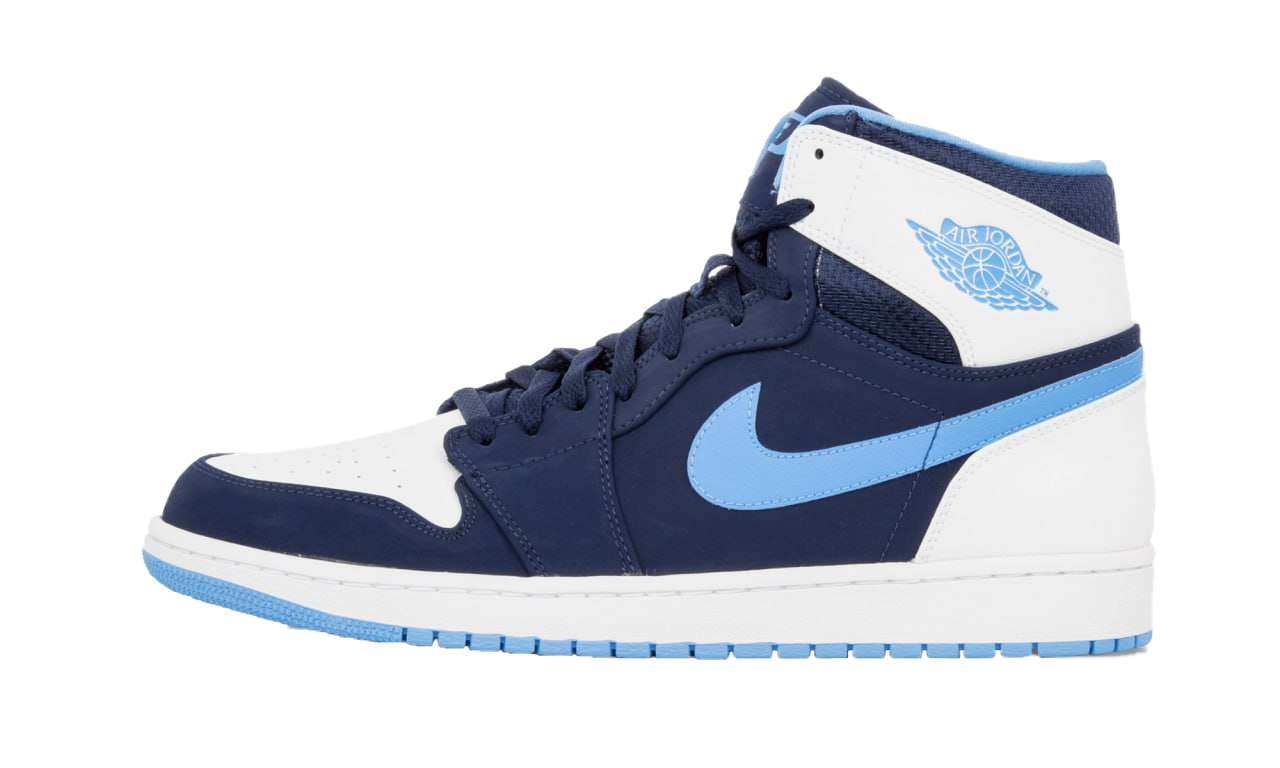
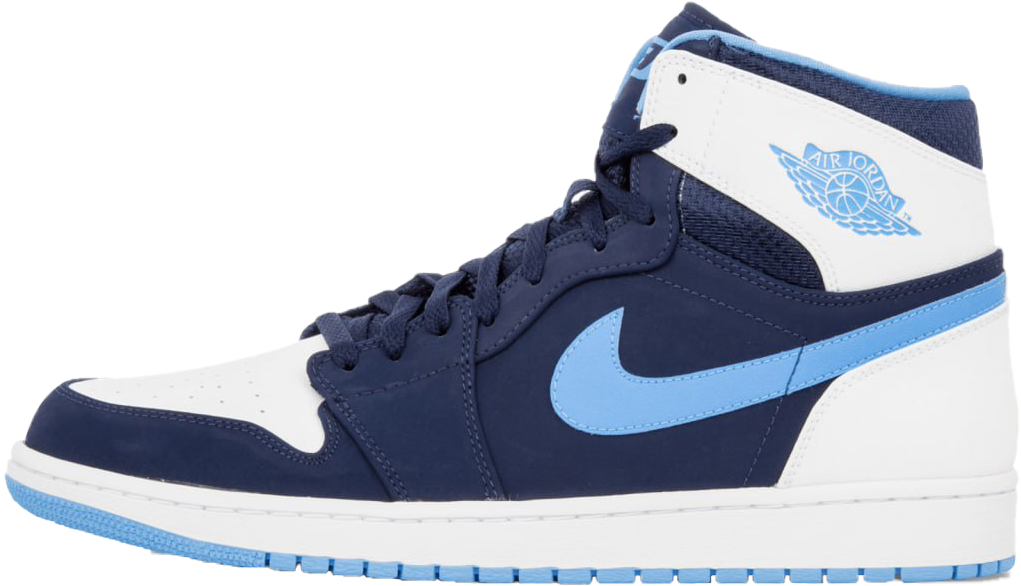
1

diff --git a/product.html b/product.html
@@ -128,7 +128,7 @@
         <div class="container">
             <div class="card">
                 <div class="image">
-                    <img src="images/products/photo_1_2024-12-17_21-01-35.png" alt="">
+                    <img src="images/products/1.png" alt="">
                 </div>
                 <div class="detail">
                     <h2>Air Jordan</h2>
@@ -158,7 +158,7 @@
             </div>
             <div class="card">
                 <div class="image">
-                    <img src="images/products/photo_1_2024-12-17_21-01-35.png" alt="">
+                    <img src="images/products/2.png" alt="">
                 </div>
                 <div class="detail">
                     <h2>Air Jordan</h2>
@@ -188,7 +188,7 @@
             </div>
             <div class="card">
                 <div class="image">
-                    <img src="images/products/photo_1_2024-12-17_21-01-35.png" alt="">
+                    <img src="images/products/3.png" alt="">
                 </div>
                 <div class="detail">
                     <h2>Air Jordan</h2>
@@ -218,7 +218,7 @@
             </div>
             <div class="card">
                 <div class="image">
-                    <img src="images/products/photo_1_2024-12-17_21-01-35.png" alt="">
+                    <img src="images/products/4.png" alt="">
                 </div>
                 <div class="detail">
                     <h2>Air Jordan</h2>
@@ -248,7 +248,7 @@
             </div>
             <div class="card">
                 <div class="image">
-                    <img src="images/products/photo_1_2024-12-17_21-01-35.png" alt="">
+                    <img src="images/products/5.png" alt="">
                 </div>
                 <div class="detail">
                     <h2>Air Jordan</h2>
@@ -278,7 +278,7 @@
             </div>
             <div class="card">
                 <div class="image">
-                    <img src="images/products/photo_1_2024-12-17_21-01-35.png" alt="">
+                    <img src="images/products/6.png" alt="">
                 </div>
                 <div class="detail">
                     <h2>Air Jordan</h2>
@@ -308,7 +308,7 @@
             </div>
             <div class="card">
                 <div class="image">
-                    <img src="images/products/photo_1_2024-12-17_21-01-35.png" alt="">
+                    <img src="images/products/7.png" alt="">
                 </div>
                 <div class="detail">
                     <h2>Air Jordan</h2>
@@ -338,7 +338,7 @@
             </div>
             <div class="card">
                 <div class="image">
-                    <img src="images/products/photo_1_2024-12-17_21-01-35.png" alt="">
+                    <img src="images/products/8.png" alt="">
                 </div>
                 <div class="detail">
                     <h2>Air Jordan</h2>
@@ -368,7 +368,7 @@
             </div>
             <div class="card">
                 <div class="image">
-                    <img src="images/products/photo_1_2024-12-17_21-01-35.png" alt="">
+                    <img src="images/products/9.png" alt="">
                 </div>
                 <div class="detail">
                     <h2>Air Jordan</h2>
@@ -398,7 +398,7 @@
             </div>
             <div class="card">
                 <div class="image">
-                    <img src="images/products/photo_1_2024-12-17_21-01-35.png" alt="">
+                    <img src="images/products/10.png" alt="">
                 </div>
                 <div class="detail">
                     <h2>Air Jordan</h2>
@@ -428,7 +428,7 @@
             </div>
             <div class="card">
                 <div class="image">
-                    <img src="images/products/photo_1_2024-12-17_21-01-35.png" alt="">
+                    <img src="images/products/11.png" alt="">
                 </div>
                 <div class="detail">
                     <h2>Air Jordan</h2>
@@ -458,7 +458,7 @@
             </div>
             <div class="card">
                 <div class="image">
-                    <img src="images/products/photo_1_2024-12-17_21-01-35.png" alt="">
+                    <img src="images/products/12.png" alt="">
                 </div>
                 <div class="detail">
                     <h2>Air Jordan</h2>
@@ -488,7 +488,7 @@
             </div>
             <div class="card">
                 <div class="image">
-                    <img src="images/products/photo_1_2024-12-17_21-01-35.png" alt="">
+                    <img src="images/products/13.png" alt="">
                 </div>
                 <div class="detail">
                     <h2>Air Jordan</h2>
@@ -518,7 +518,7 @@
             </div>
             <div class="card">
                 <div class="image">
-                    <img src="images/products/photo_1_2024-12-17_21-01-35.png" alt="">
+                    <img src="images/products/14.png" alt="">
                 </div>
                 <div class="detail">
                     <h2>Air Jordan</h2>
@@ -548,7 +548,7 @@
             </div>
             <div class="card">
                 <div class="image">
-                    <img src="images/products/photo_1_2024-12-17_21-01-35.png" alt="">
+                    <img src="images/products/15.png" alt="">
                 </div>
                 <div class="detail">
                     <h2>Air Jordan</h2>
@@ -578,7 +578,7 @@
             </div>
             <div class="card">
                 <div class="image">
-                    <img src="images/products/photo_1_2024-12-17_21-01-35.png" alt="">
+                    <img src="images/products/16.png" alt="">
                 </div>
                 <div class="detail">
                     <h2>Air Jordan</h2>
@@ -608,7 +608,7 @@
             </div>
             <div class="card">
                 <div class="image">
-                    <img src="images/products/photo_1_2024-12-17_21-01-35.png" alt="">
+                    <img src="images/products/17.png" alt="">
                 </div>
                 <div class="detail">
                     <h2>Air Jordan</h2>
@@ -638,7 +638,7 @@
             </div>
             <div class="card">
                 <div class="image">
-                    <img src="images/products/photo_1_2024-12-17_21-01-35.png" alt="">
+                    <img src="images/products/18.png" alt="">
                 </div>
                 <div class="detail">
                     <h2>Air Jordan</h2>
@@ -668,7 +668,7 @@
             </div>
             <div class="card">
                 <div class="image">
-                    <img src="images/products/photo_1_2024-12-17_21-01-35.png" alt="">
+                    <img src="images/products/19.png" alt="">
                 </div>
                 <div class="detail">
                     <h2>Air Jordan</h2>
@@ -698,7 +698,7 @@
             </div>
             <div class="card">
                 <div class="image">
-                    <img src="images/products/photo_1_2024-12-17_21-01-35.png" alt="">
+                    <img src="images/products/20.png" alt="">
                 </div>
                 <div class="detail">
                     <h2>Air Jordan</h2>

diff --git a/home.html b/home.html
@@ -65,7 +65,7 @@
             <div class="card_container">
                 <div class="card">
                     <div class="image">
-                        <img src="images/products/photo_1_2024-12-17_21-01-35.png" alt="">
+                        <img src="images/products/1.png" alt="">
                     </div>
                     <div class="detail">
                         <h2>Air Jordan</h2>
@@ -79,7 +79,7 @@
                 </div>
                 <div class="card">
                     <div class="image">
-                        <img src="images/products/photo_1_2024-12-17_21-01-35.png" alt="">
+                        <img src="images/products/19.png" alt="">
                     </div>
                     <div class="detail">
                         <h2>Air Jordan</h2>
@@ -93,7 +93,7 @@
                 </div>
                 <div class="card">
                     <div class="image">
-                        <img src="images/products/photo_1_2024-12-17_21-01-35.png" alt="">
+                        <img src="images/products/15.png" alt="">
                     </div>
                     <div class="detail">
                         <h2>Air Jordan</h2>
@@ -107,7 +107,7 @@
                 </div>
                 <div class="card">
                     <div class="image">
-                        <img src="images/products/photo_1_2024-12-17_21-01-35.png" alt="">
+                        <img src="images/products/17.png" alt="">
                     </div>
                     <div class="detail">
                         <h2>Air Jordan</h2>

diff --git a/styles.css b/styles.css
@@ -332,7 +332,7 @@ footer .bottom .shop .icon img{
     top: 35%;
     left: 50%;
     transform: translate(-50%, -50%);
-    width: 250px;
+    width: 220px;
     height: auto;
     transition: 0.5s ease-in-out;
     z-index: 30;

diff --git a/product_styles.css b/product_styles.css
@@ -157,7 +157,7 @@ body{
     top: 35%;
     left: 50%;
     transform: translate(-50%, -50%);
-    width: 300px;
+    width: 240px;
     height: auto;
     transition: 0.5s ease-in-out;
 }
